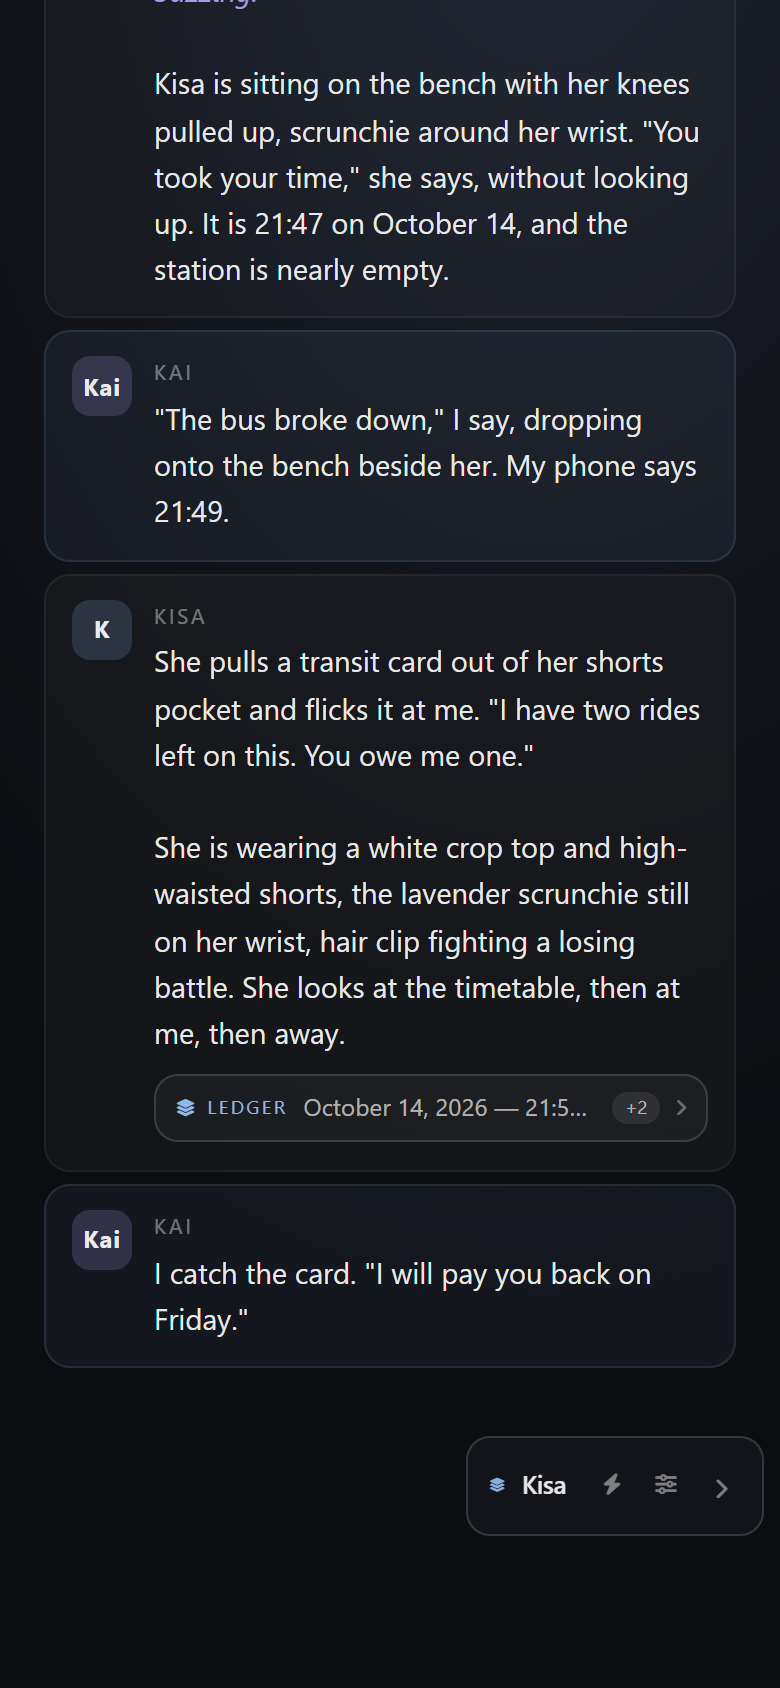
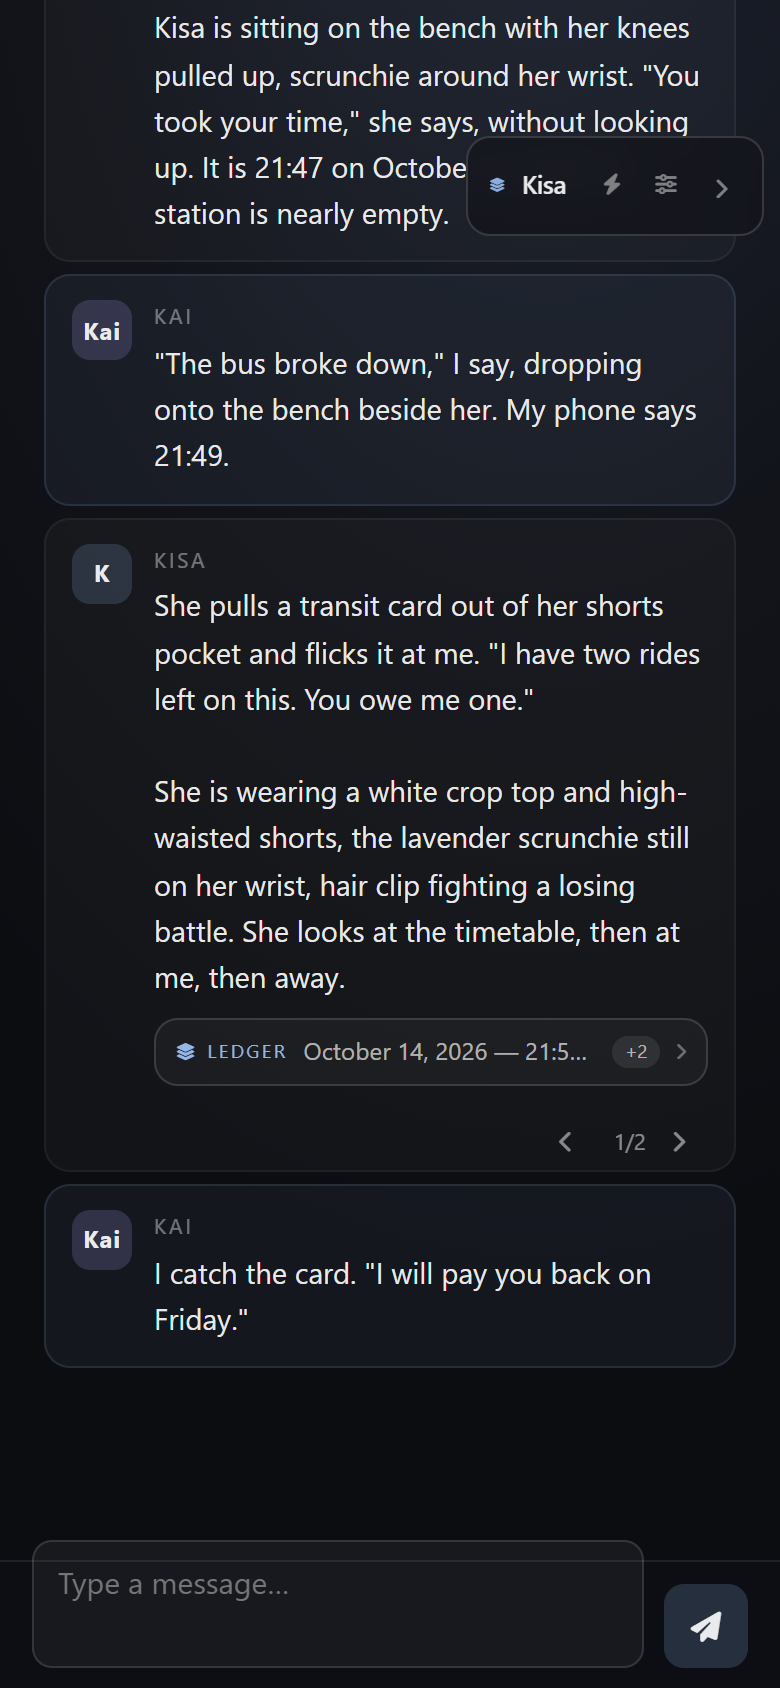
1.0.1: keep the block clear of the swipe footer; mobile panel fits above the input and opens on tap

diff --git a/test/harness.html b/test/harness.html
@@ -64,6 +64,7 @@
         }
 
         .mes {
+            position: relative;
             display: flex;
             gap: 11px;
             padding: 12px 13px;
@@ -111,6 +112,74 @@
         .mes_text {
             font-size: 14.5px;
             white-space: pre-wrap;
+        }
+
+        .swipes-counter {
+            position: absolute;
+            right: 44px;
+            bottom: 5px;
+            font-size: 11px;
+            opacity: 0.55;
+            font-variant-numeric: tabular-nums;
+        }
+
+        .swipe_left,
+        .swipe_right {
+            position: absolute;
+            bottom: 0;
+            width: 32px;
+            height: 26px;
+            display: grid;
+            place-items: center;
+            font-size: 11px;
+            opacity: 0.55;
+            cursor: pointer;
+        }
+
+        .swipe_left {
+            right: 68px;
+        }
+
+        .swipe_right {
+            right: 12px;
+        }
+
+        #send_form {
+            position: fixed;
+            left: 0;
+            right: 0;
+            bottom: 0;
+            z-index: 30;
+            display: flex;
+            align-items: flex-end;
+            gap: 10px;
+            height: 64px;
+            padding: 10px 16px;
+            box-sizing: border-box;
+            background: rgba(13, 14, 19, 0.96);
+            border-top: 1px solid rgba(255, 255, 255, 0.08);
+        }
+
+        #send_textarea {
+            flex: 1;
+            height: 42px;
+            resize: none;
+            border-radius: 10px;
+            border: 1px solid rgba(255, 255, 255, 0.12);
+            background: rgba(255, 255, 255, 0.05);
+            color: inherit;
+            font: inherit;
+            padding: 10px 12px;
+        }
+
+        #send_but {
+            width: 42px;
+            height: 42px;
+            display: grid;
+            place-items: center;
+            border-radius: 10px;
+            background: rgba(158, 201, 255, 0.18);
+            color: inherit;
         }
 
         .mes_text em {
@@ -342,6 +411,9 @@ Kisa is sitting on the bench with her knees pulled up, scrunchie around her wris
 
 She is wearing a white crop top and high-waisted shorts, the lavender scrunchie still on her wrist, hair clip fighting a losing battle. She looks at the timetable, then at me, then away.</div>
             </div>
+            <span class="swipes-counter">1/2</span>
+            <div class="swipe_left"><i class="fa-solid fa-chevron-left"></i></div>
+            <div class="swipe_right"><i class="fa-solid fa-chevron-right"></i></div>
         </div>
         <div class="mes" mesid="3" is_user="true">
             <div class="mes_avatar">Kai</div>
@@ -351,6 +423,11 @@ She is wearing a white crop top and high-waisted shorts, the lavender scrunchie 
             </div>
         </div>
     </div>
+
+    <form id="send_form">
+        <textarea id="send_textarea" placeholder="Type a message…"></textarea>
+        <div id="send_but"><i class="fa-solid fa-paper-plane"></i></div>
+    </form>
 
     <div id="extensions_settings"></div>
     <div id="devbar">
@@ -431,6 +508,12 @@ She is wearing a white crop top and high-waisted shorts, the lavender scrunchie 
                     <div class="mes_text"></div>
                 </div>`;
             node.querySelector('.mes_text').textContent = text;
+            if (!isUser) {
+                node.insertAdjacentHTML('beforeend', `
+                    <span class="swipes-counter">1/2</span>
+                    <div class="swipe_left"><i class="fa-solid fa-chevron-left"></i></div>
+                    <div class="swipe_right"><i class="fa-solid fa-chevron-right"></i></div>`);
+            }
             chatEl.append(node);
             eventSource.emit(isUser ? eventTypes.MESSAGE_SENT : eventTypes.MESSAGE_RECEIVED);
         }

diff --git a/index.js b/index.js
@@ -175,6 +175,7 @@ function buildView() {
 function refresh({ inline = true } = {}) {
     const view = buildView();
     panel?.render(view);
+    fitPanelToViewport();
     if (inline) {
         mountInline(view);
     }
@@ -202,12 +203,14 @@ function mountInline(view) {
         return;
     }
 
-    const text = last.querySelector('.mes_text');
-    if (text) {
-        text.after(element);
-    } else {
-        last.append(element);
-    }
+    // Sit at the end of the message block, and reserve the strip that ST's
+    // absolutely-positioned swipe counter and arrows live in, or they draw over
+    // the last row of the block.
+    const swipes = last.querySelector('.swipes-counter, .swipe_left, .swipe_right, .swipes-counter-container');
+    element.classList.toggle('lgd-inline--swipes', Boolean(swipes));
+
+    const block = last.querySelector('.mes_block') ?? last;
+    block.append(element);
 }
 
 /* ------------------------------------------------------------------ injection */
@@ -554,6 +557,29 @@ function handleAction(detail) {
 
 /* --------------------------------------------------------------------- panel */
 
+/**
+ * On a phone the panel must end above SillyTavern's input bar. The bar's height
+ * depends on the theme and on the number of quick-reply buttons, so measure it
+ * rather than hardcoding an offset — a fixed `bottom` is what put the panel's
+ * footer underneath the input.
+ */
+function fitPanelToViewport() {
+    if (!panel) {
+        return;
+    }
+
+    if (window.innerWidth > 720) {
+        panel.el.style.maxHeight = '';
+        return;
+    }
+
+    const top = 68;
+    const form = document.getElementById('send_form') ?? document.getElementById('send_but')?.closest('form');
+    const formTop = form?.getBoundingClientRect().top;
+    const limit = Number.isFinite(formTop) && formTop > top + 200 ? formTop : window.innerHeight - 92;
+    panel.el.style.maxHeight = `${Math.max(220, Math.round(limit - top - 12))}px`;
+}
+
 function applyPanelPosition() {
     if (!panel) {
         return;
@@ -589,6 +615,7 @@ function ensurePanel() {
     panel = createPanel({ onAction: handleAction });
     document.body.append(panel.el);
     applyPanelPosition();
+    fitPanelToViewport();
     return panel;
 }
 
@@ -879,8 +906,12 @@ async function bootstrap() {
     let resizeTimer = null;
     window.addEventListener('resize', () => {
         clearTimeout(resizeTimer);
-        resizeTimer = window.setTimeout(applyPanelPosition, 180);
+        resizeTimer = window.setTimeout(() => {
+            applyPanelPosition();
+            fitPanelToViewport();
+        }, 180);
     });
+    window.addEventListener('orientationchange', () => window.setTimeout(fitPanelToViewport, 260));
     waitForWandMenu();
     registerSlashCommand();
     refresh();

diff --git a/src/ui.js b/src/ui.js
@@ -90,7 +90,7 @@ export function createPanel({ onAction }) {
                 <span class="lgd-badge" data-ref="badge" hidden>0</span>
                 <button class="lgd-icon-btn" type="button" data-act="sync" title="Scan new messages" aria-label="Scan new messages">${icon('sync')}</button>
                 <button class="lgd-icon-btn" type="button" data-act="settings" title="Ledger settings" aria-label="Ledger settings">${icon('settings')}</button>
-                <button class="lgd-icon-btn" type="button" data-act="collapse" title="Minimise the panel" aria-label="Minimise the panel">${icon('collapse')}</button>
+                <button class="lgd-icon-btn" type="button" data-act="collapse" title="Minimise or open the panel" aria-label="Minimise or open the panel">${icon('collapse')}</button>
             </div>
         </div>
         <div class="lgd-status" data-ref="status"></div>
@@ -201,13 +201,27 @@ export function createPanel({ onAction }) {
         }
     });
 
-    /* drag by the header */
+    /* drag by the header (and open the panel if it is a plain tap) */
     const head = el.querySelector('[data-grip]');
     let drag = null;
+    let suppressClick = false;
+
+    head.addEventListener('click', event => {
+        if (suppressClick) {
+            suppressClick = false;
+            return;
+        }
+        if (event.target.closest('button') || !state.collapsed) {
+            return;
+        }
+        state.collapsed = false;
+        render(state.view);
+    });
     head.addEventListener('pointerdown', event => {
         if (event.button !== 0 || event.target.closest('button') || window.innerWidth <= 720) {
             return;
         }
+        suppressClick = false;
         const rect = el.getBoundingClientRect();
         drag = { dx: event.clientX - rect.left, dy: event.clientY - rect.top, w: rect.width, h: rect.height };
         el.classList.add('is-dragging');
@@ -231,6 +245,7 @@ export function createPanel({ onAction }) {
         }
         drag = null;
         el.classList.remove('is-dragging');
+        suppressClick = true;
         head.releasePointerCapture?.(event.pointerId);
         emit({ type: 'move', pos: { x: Math.round(el.offsetLeft), y: Math.round(el.offsetTop) } });
     });

diff --git a/style.css b/style.css
@@ -64,6 +64,7 @@
 #lgd-panel.is-collapsed .lgd-head {
     align-items: center;
     padding: 7px 8px 7px 11px;
+    cursor: pointer;
 }
 
 #lgd-panel.is-collapsed .lgd-head-text {
@@ -731,6 +732,12 @@
     overflow: hidden;
 }
 
+.lgd-inline--swipes {
+    /* ST floats the swipe counter and arrows at the bottom-right of the message;
+       this strip is what keeps them off the block's last row. */
+    margin-bottom: 30px;
+}
+
 .lgd-inline-head {
     display: flex;
     align-items: center;
@@ -1353,25 +1360,28 @@
 }
 
 @media (max-width: 720px) {
-    /* A right-hand drawer, so the chat input and the send button stay usable. */
+    /* A right-hand drawer anchored to the top: the bottom of the screen belongs
+       to the chat input, and a `bottom` offset there hid the panel's footer.
+       JS then caps the height to the measured top of #send_form. */
     #lgd-panel {
-        top: 62px;
+        top: 68px;
         right: 0;
         left: auto;
-        bottom: 76px;
-        width: min(88vw, 340px);
-        max-height: none;
+        bottom: auto;
+        width: min(92vw, 360px);
+        max-height: calc(100dvh - 170px);
         border-radius: 14px 0 0 14px;
         border-right: 0;
     }
 
     #lgd-panel.is-collapsed {
-        top: auto;
+        top: 68px;
         right: 8px;
-        bottom: 76px;
+        bottom: auto;
         left: auto;
         width: auto;
-        max-width: 210px;
+        max-width: 220px;
+        max-height: none;
         border-radius: 12px;
         border-right: 1px solid var(--lgd-line);
     }

diff --git a/test/topics.py b/test/topics.py
@@ -1,0 +1,12 @@
+
+import json, subprocess, urllib.request
+proc = subprocess.run(["git","credential","fill"], input="protocol=https\nhost=github.com\n\n", capture_output=True, text=True, cwd=r"E:\Workspace\st-ledger", timeout=45)
+tok = ""
+for line in proc.stdout.splitlines():
+    if line.startswith("password="): tok = line.split("=",1)[1].strip()
+req = urllib.request.Request("https://api.github.com/repos/HakaiGod420/st-ledger/topics",
+    method="PUT",
+    data=json.dumps({"names": ["sillytavern","sillytavern-extension","roleplay","llm","ui"]}).encode(),
+    headers={"Authorization":"Bearer "+tok,"Accept":"application/vnd.github+json","User-Agent":"ledger","Content-Type":"application/json"})
+with urllib.request.urlopen(req) as r:
+    print(r.status, json.loads(r.read().decode())["names"])
